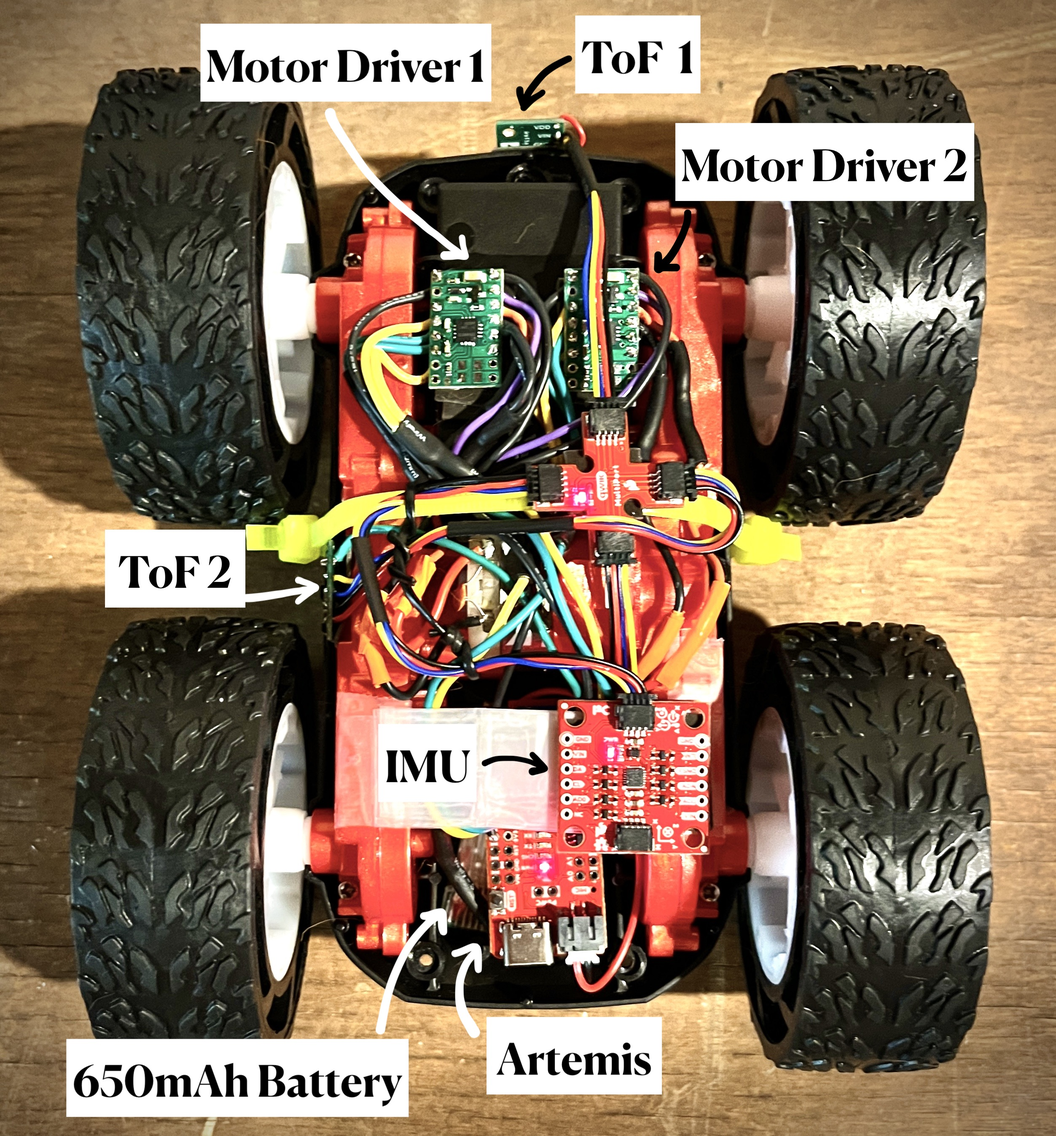
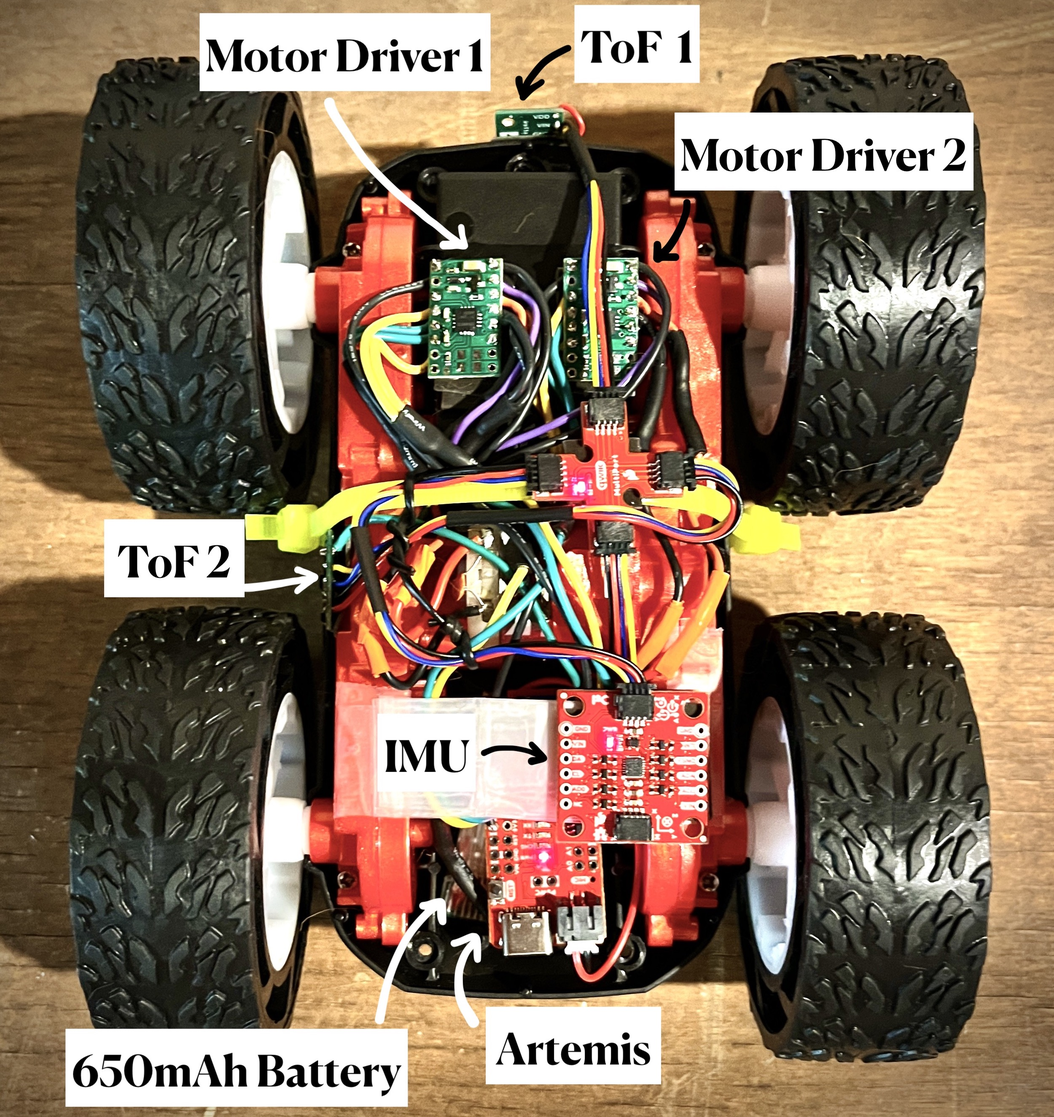
y

diff --git a/index.html b/index.html
@@ -69,9 +69,9 @@
                 <p class="lead mb-5">This GitHub page is dedicated to documenting the Fast Robots project. The purpose of this project was to design and build a robotic miniature RC car and apply a variety of robotics principles to it. Some of these principles include Proportional-Integral-Derivative feedback control, Mapping, Kalman Filter, and Path Planning. This project is split up into 12 labs in which I descibe the lab procedure and analyze data. To navigate the page, either scroll down or click on the links in the menu bar on the left side of the screen.</p>
                 <p> </p>
                 <img src="assets/img/about/car_wiring_0.jpg" alt="car_wiring_0"
-                    style="width:500px;height:540px;">
+                    style="width:472px;height:500px;">
                 <img src="assets/img/about/car_wiring_1.jpg" alt="car_wiring_1"
-                    style="width:500px;height:667px;">
+                    style="width:500px;height:500px;">
                 <div class="social-icons">
                     <a class="social-icon" href="#!"><i class="fab fa-linkedin-in"></i></a>
                     <a class="social-icon" href="#!"><i class="fab fa-github"></i></a>
